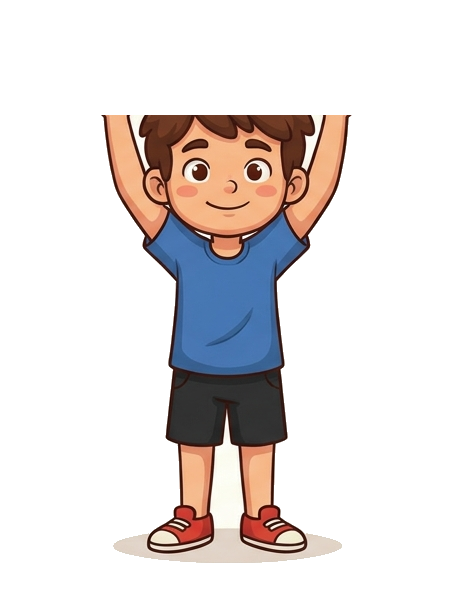
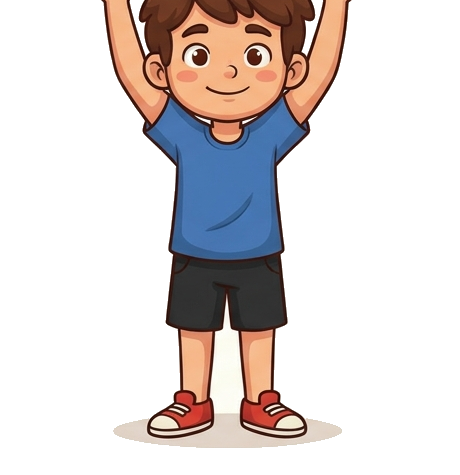
Fix cut hands and smooth the seesaw physics
- Kid sprites re-cropped exactly at the wrist line (the old crop kept ~115px
  of transparent padding above, creating a visible gap under the plank)
- Grip hands with finger lines drawn on the plank itself, so Milo visibly
  holds it at any tilt angle
- Seesaw retune: heavier plank (density .004 -> .007), velocity damping term,
  progressive soft-stop instead of a hard angle clamp, gentler wind gusts
- Verified numerically at iPhone viewport: gradual angle changes, no jitter

Changed region(s): [[0.213, 0.0, 0.7609, 0.9726], [0.4565, 0.4716, 0.487, 0.5011]]

diff --git a/index.html b/index.html
@@ -350,10 +350,10 @@
     tray = Bodies.rectangle(pivotX, pivotY, trayWidth, 26, {
       chamfer: { radius: 6 },
       label: 'tray',
-      density: 0.004,
+      density: 0.007,          // heavier plank: slower, smoother swings
       friction: 0.9,
       frictionStatic: 1.2,
-      frictionAir: 0.06,
+      frictionAir: 0.10,       // more damping: less jitter
       restitution: 0
     });
 
@@ -361,14 +361,18 @@
     wallR = Bodies.rectangle(width + 20, height / 2, 40, height * 4, { isStatic: true, label: 'wall' });
 
     World.add(world, [tray, wallL, wallR]);
+    window.__tiltDebug = () => (tray ? tray.angle : null);
 
     // Spring keeps the tray level until the stack genuinely outweighs it
     Events.on(engine, 'beforeUpdate', () => {
       Body.setPosition(tray, { x: pivotX, y: pivotY });
       Body.setVelocity(tray, { x: 0, y: 0 });
-      const K = tray.inertia * 9e-6;   // leveling spring strength
-      const MAX = 0.34;                // hard tilt limit (rad)
-      tray.torque += -K * tray.angle;
+      const K = tray.inertia * 1.1e-5;      // leveling spring strength
+      const D = tray.inertia * 1.6e-3;      // velocity damping: smooth, no wobble-jitter
+      const SOFT = 0.26, MAX = 0.38;        // progressive soft stop, then hard safety
+      tray.torque += -K * tray.angle - D * tray.angularVelocity;
+      const over = Math.abs(tray.angle) - SOFT;
+      if (over > 0) tray.torque += -Math.sign(tray.angle) * K * over * 14;
       if (tray.angle > MAX) { Body.setAngle(tray, MAX); if (tray.angularVelocity > 0) Body.setAngularVelocity(tray, 0); }
       if (tray.angle < -MAX) { Body.setAngle(tray, -MAX); if (tray.angularVelocity < 0) Body.setAngularVelocity(tray, 0); }
     });
@@ -505,7 +509,7 @@
     if (now - lastTiltTime < interval) return;
     lastTiltTime = now;
     // a gust of wind nudges the seesaw instead of teleporting it
-    const kick = (Math.random() - 0.5) * (0.04 + level * 0.008);
+    const kick = (Math.random() - 0.5) * (0.022 + level * 0.005);
     Body.setAngularVelocity(tray, tray.angularVelocity + kick);
     const newW = Math.max(140, trayWidth * 0.94);
     if (newW < trayWidth) {
@@ -679,7 +683,7 @@
 
   function drawBalanceMeter(now) {
     if (!running || !tray) return;
-    const MAX = 0.34;
+    const MAX = 0.38;
     const t = Math.max(-MAX, Math.min(MAX, tray.angle));
     const mh = Math.min(170, height * 0.24);
     const mx = 14, my = height * 0.42 - mh / 2;
@@ -796,8 +800,8 @@
   });
   function imgReady() { return imgLoaded === imgCount; }
 
-  const KID_RATIO = 590 / 460;   // kid sprite aspect (h/w)
-  function kidW() { return Math.min(200, width * 0.48, (height * 0.29 - 14) / KID_RATIO); }
+  const KID_RATIO = 475 / 460;   // kid sprite aspect (h/w), cropped at the wrists
+  function kidW() { return Math.min(220, width * 0.52, (height * 0.29 - 14) / KID_RATIO); }
   function floorY() { return height * 0.70 + 6 + kidW() * KID_RATIO; }
 
   function drawFloor() { /* floor is part of the background art */ }
@@ -812,7 +816,7 @@
     const lean = -t * 18;
     const wob = at > 0.2 ? Math.sin(now * 0.03) * 2 : 0;
     ctx.save();
-    ctx.translate(px + lean * 0.3 + wob, py + 6);
+    ctx.translate(px + lean * 0.3 + wob, py + 9);
     ctx.rotate(t * 0.05);
     ctx.drawImage(im, -dw / 2, 0, dw, dh);
     ctx.restore();
@@ -930,6 +934,26 @@
       ctx.lineWidth = 5;
       roundRect(-w / 2 - 4, -17, w + 8, 34, 15);
       ctx.stroke();
+    }
+
+    // Milo's hands gripping the plank (drawn in plank space so they follow the tilt)
+    const handX = Math.min(kidW() * 0.34, w / 2 - 14);
+    for (const dir of [-1, 1]) {
+      ctx.fillStyle = '#f6c290';
+      ctx.strokeStyle = 'rgba(120,60,20,0.45)';
+      ctx.lineWidth = 2;
+      ctx.beginPath();
+      ctx.ellipse(dir * handX, 7, 11, 8.5, 0, 0, Math.PI * 2);
+      ctx.fill(); ctx.stroke();
+      // finger lines wrapping the plank front
+      ctx.strokeStyle = 'rgba(120,60,20,0.35)';
+      ctx.lineWidth = 1.5;
+      for (let f = -1; f <= 1; f++) {
+        ctx.beginPath();
+        ctx.moveTo(dir * handX + f * 4.5, 0);
+        ctx.quadraticCurveTo(dir * handX + f * 4.5 - 1, 6, dir * handX + f * 4.5, 11);
+        ctx.stroke();
+      }
     }
     ctx.restore();
   }
